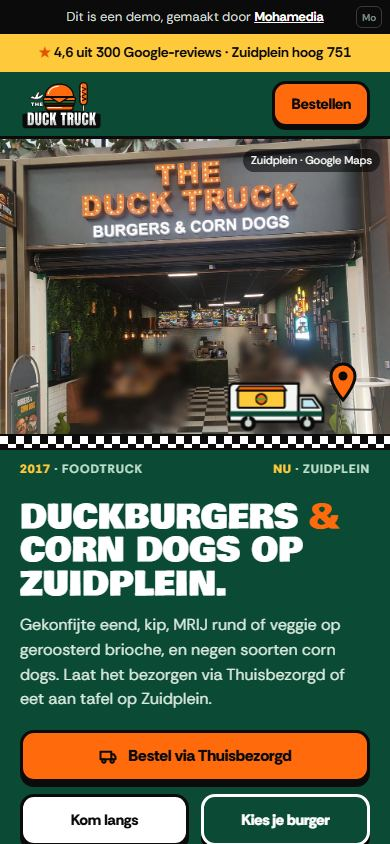
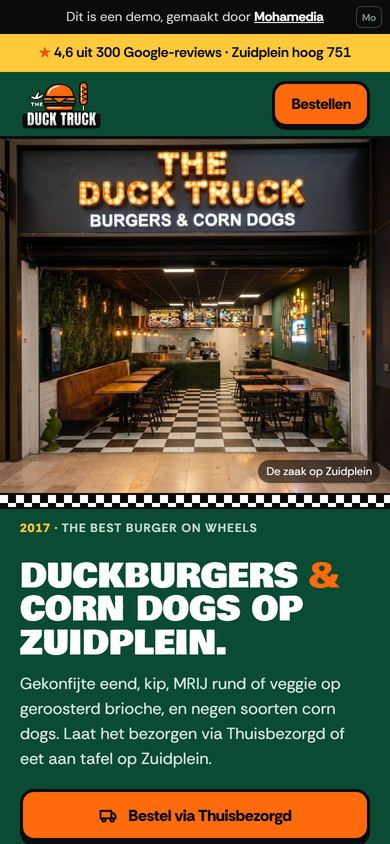
Demo the-duck-truck

diff --git a/the-duck-truck/index.html b/the-duck-truck/index.html
@@ -7,10 +7,12 @@
   gevelfoto); de site gedraagt zich als zo'n zuil: grote tegels, categorie-rail, een "winkelmand"-balk met prijs en
   één knop naar Thuisbezorgd. Burger-kiezer = vlees -> smaak -> los/menu, met een camerapan over hun eigen
   burgerfoto die per gekozen smaak één burger doorschuift, zonder smaak-op-burger-koppeling (geen getekende schaal, geen kaartje dat zich invult).
-  Hero: hun eigen gevelfoto (Zuidplein, lichtletters) recht en stil. Eronder een stilstaande zwart-wit tegelstrook
-  (hun vloer) als weg: één keer rijdt een getekende foodtruck van "2017 · foodtruck" naar "Zuidplein hoog 751" en
-  parkeert; de pin valt één keer. Daarna stil. Geen lus, geen Ken Burns, geen stoom, geen licht-gaat-aan/neon-flikker,
-  geen letters één voor één, geen schuine fotokaart, geen stempel/sticker, geen lopende band.
+  Hero: hun eigen gevelfoto (Zuidplein), met AI opgeschoond (mensen verwijderd), recht. Beweging (wens Mo 9 nov, gaat
+  vóór de "geen lus"-les): de gloeilampjes van hun lichtletters THE DUCK TRUCK leven als een marquee: bij laden één
+  snelle chase van links naar rechts, daarna een rustige twinkel per lampje (overlay op de 101 gemeten lampposities,
+  niet de hele foto). Bij laden vloeit een warme gloed over de stenen vloer naar buiten. Eronder een stilstaande
+  zwart-wit tegelstrook (hun vloer). Geen truck meer (Caribbean Soul Kitchen heeft al een rijdende truck), geen
+  Ken Burns, geen stoom, geen letters één voor één, geen schuine fotokaart, geen stempel, geen lopende band.
   Kleuren uit hun zaak/logo: diep groen (#0b4a34), zwart-wit tegel, oranje lichtletters (#ff6a0d), geel van de sterren.
   Fonts: Bowlby One (zoals hun lichtletters) + Rethink Sans.
   Logo: hun eigen logo (eend, THE, burger, corn dog, boogband met DUCK TRUCK) nagetekend als vectorpaden.
@@ -76,18 +78,24 @@ p{margin:0}
 /* hero */
 .hero{background:var(--groen);color:#fff;position:relative;overflow:hidden}
 .hero-grid{display:grid;grid-template-columns:1fr}
-.hero-foto{position:relative;height:clamp(250px,35vh,330px);overflow:hidden;background:#2b2f2c}
-.hero-foto img{width:100%;height:100%;object-fit:cover;object-position:50% 14%}
-.hero-foto .bron{position:absolute;right:10px;top:10px;background:rgba(0,0,0,.55);color:#fff;font-size:11px;padding:3px 8px;border-radius:99px}
+.hero-foto{position:relative;height:clamp(290px,42vh,360px);overflow:hidden;background:#141a17}
+.beeld{position:absolute;left:0;top:0;width:100%;aspect-ratio:1400/1737}
+.beeld img{width:100%;height:100%;display:block}
+.hero-foto .bron{position:absolute;right:10px;bottom:10px;z-index:3;background:rgba(0,0,0,.55);color:#fff;font-size:11px;padding:3px 8px;border-radius:99px}
 .weg{position:relative;height:16px;background:repeating-conic-gradient(var(--zwart) 0 25%,#fff 0 50%) 0 0/16px 16px;border-block:2px solid var(--zwart)}
-.truck{position:absolute;bottom:14px;right:16%;width:104px;height:56px;z-index:3;animation:rij 2.6s cubic-bezier(.2,.75,.25,1) .35s both}
-.truck .wiel{transform-box:fill-box;transform-origin:center;animation:draai 2.6s cubic-bezier(.2,.75,.25,1) .35s both}
-.truck .romp{animation:veer .5s ease-out 2.75s both;transform-box:fill-box;transform-origin:50% 100%}
-@keyframes rij{from{transform:translateX(-110vw)}to{transform:translateX(0)}}
-@keyframes draai{from{transform:rotate(-1440deg)}to{transform:rotate(0)}}
-@keyframes veer{0%{transform:translateY(0)}35%{transform:translateY(2px) rotate(.8deg)}70%{transform:translateY(-1px)}100%{transform:translateY(0)}}
-.pin{position:absolute;right:calc(16% - 30px);bottom:46px;width:30px;height:40px;z-index:4;animation:pinval .55s cubic-bezier(.3,1.5,.5,1) 2.85s both}
-@keyframes pinval{from{opacity:0;transform:translateY(-40px)}to{opacity:1;transform:translateY(0)}}
+/* lampjes van hun lichtletters: overlay op de gemeten lampposities */
+.lampen{position:absolute;inset:0;pointer-events:none}
+.lamp{position:absolute;width:var(--lw,14px);height:var(--lw,14px);margin:calc(var(--lw,14px)/-2) 0 0 calc(var(--lw,14px)/-2);border-radius:50%;
+  background:radial-gradient(circle,#fffdf2 0 16%,rgba(255,226,150,.95) 30%,rgba(255,170,60,.45) 52%,rgba(255,140,30,0) 72%);
+  mix-blend-mode:screen;opacity:0;
+  animation:chase .55s ease-out var(--d) both, twinkel var(--t) ease-in-out calc(2.6s + var(--r)) infinite}
+@keyframes chase{0%{opacity:0;transform:scale(.6)}30%{opacity:1;transform:scale(2.3)}100%{opacity:.55;transform:scale(1)}}
+@keyframes twinkel{0%,100%{opacity:.5;transform:scale(1)}50%{opacity:1;transform:scale(1.35)}}
+/* warme gloed die bij laden over de stenen vloer naar buiten uitvloeit */
+.vloergloed{position:absolute;left:0;right:0;top:72%;height:28%;-webkit-mask-image:linear-gradient(to bottom,transparent,#000 30%);mask-image:linear-gradient(to bottom,transparent,#000 30%);pointer-events:none;mix-blend-mode:screen;
+  background:radial-gradient(60% 75% at 50% 0%,rgba(255,170,70,.55),rgba(255,140,40,.18) 55%,rgba(255,120,30,0) 80%);
+  transform-origin:50% 0;animation:uitvloei 2.4s cubic-bezier(.2,.7,.2,1) .9s both}
+@keyframes uitvloei{from{opacity:0;transform:scaleY(.05) scaleX(.5)}to{opacity:1;transform:scaleY(1) scaleX(1)}}
 .route-labels{display:flex;justify-content:space-between;font-size:12px;font-weight:700;letter-spacing:.08em;text-transform:uppercase;color:#bfe0cd;padding:10px 0 0}
 .route-labels b{color:var(--geel);font-weight:800}
 .hero-tekst{padding:14px 0 30px}
@@ -275,18 +283,14 @@ footer .klein{font-size:13px;color:#9fb0a6}
   .logo img{height:66px}
   .hero-grid{grid-template-columns:1.05fr 1fr;min-height:560px}
   .hero-foto{height:auto;min-height:560px;grid-row:1/3}
-  .hero-foto img{object-position:50% 35%}
   .weg{grid-column:1/-1;grid-row:3}
   .hero-tekst{grid-column:2;grid-row:1/3;padding:56px 40px 40px 56px;align-self:center;max-width:640px}
   .route-labels{grid-column:1/-1;grid-row:4;padding:10px 24px 18px}
-  .truck{width:130px;height:70px}
   .cd-grid{grid-template-columns:1fr 1.05fr;align-items:center}
   .vest{grid-template-columns:1fr 1fr;align-items:stretch}
   .adres .btns{grid-template-columns:1fr 1fr}
   .zweef,.zweef.aan{display:none}
   .hero-tekst{padding-top:36px;padding-bottom:100px}
-  .truck{right:9%}
-  .pin{right:calc(9% - 40px)}
   .kiosk{padding:16px}
   .stap{padding:24px 26px 6px}
   .mand{grid-template-columns:1fr auto;align-items:center;padding:18px 26px}
@@ -302,6 +306,8 @@ footer .klein{font-size:13px;color:#9fb0a6}
   .tegel{padding:12px 10px}
 }
 @media (prefers-reduced-motion:reduce){
+  .lamp{animation:none!important;opacity:.6}
+  .vloergloed{animation:none!important}
   *,*::before,*::after{animation-duration:.01ms!important;animation-delay:0s!important;transition-duration:.01ms!important;scroll-behavior:auto!important}
 }
 </style>
@@ -327,27 +333,17 @@ footer .klein{font-size:13px;color:#9fb0a6}
 <main id="top">
 <section class="hero" id="hero" aria-labelledby="hero-kop">
   <div class="hero-grid">
-    <div class="hero-foto">
-      <img src="img/gevel-zuidplein.jpg" alt="De gevel van The Duck Truck op Zuidplein: oranje lichtletters 'The Duck Truck, burgers &amp; corn dogs' boven een zaak met zwart-witte tegelvloer en groene wand" width="960" height="960" fetchpriority="high">
-      <span class="bron">Zuidplein · Google Maps</span>
+    <!-- Hero-foto: de originele Google Maps-gevelfoto (apr 2025), met AI opgeschoond (Nano Banana Pro via Higgsfield):
+         mensen, standaard en statafel verwijderd, scherper gemaakt. Lampjes en vloergloed zijn een CSS-overlay. -->
+    <div class="hero-foto" id="heroFoto">
+      <div class="beeld" id="beeld">
+        <img src="img/gevel-zuidplein-900.jpg" srcset="img/gevel-zuidplein-900.jpg 900w, img/gevel-zuidplein-1400.jpg 1400w" sizes="(min-width:980px) 52vw, 100vw" alt="De zaak op Zuidplein: oranje lichtletters 'The Duck Truck, burgers &amp; corn dogs' boven een zaak met zwart-witte tegelvloer en groene wand" width="1400" height="1737" fetchpriority="high">
+        <div class="vloergloed" aria-hidden="true"></div>
+        <div class="lampen" id="lampen" aria-hidden="true"></div>
+      </div>
+      <span class="bron">De zaak op Zuidplein</span>
     </div>
-    <div class="weg" aria-hidden="true">
-      <svg class="truck" viewBox="0 0 120 64" aria-hidden="true">
-        <g class="romp">
-          <path d="M6 12 Q6 6 12 6 H86 V50 H6 Z" fill="#f3f6f3" stroke="#0b0b0b" stroke-width="3" stroke-linejoin="round"/>
-          <path d="M86 20 H104 L114 34 V50 H86 Z" fill="#f3f6f3" stroke="#0b0b0b" stroke-width="3" stroke-linejoin="round"/>
-          <path d="M90 24 H102 L109 34 H90 Z" fill="#bfe8f0" stroke="#0b0b0b" stroke-width="2"/>
-          <rect x="16" y="14" width="54" height="20" rx="2" fill="#ffc93c" stroke="#0b0b0b" stroke-width="2.5"/>
-          <path d="M14 14 H72 L68 9 H18 Z" fill="#ff6a0d" stroke="#0b0b0b" stroke-width="2" stroke-linejoin="round"/>
-          <rect x="6" y="38" width="108" height="6" fill="#0b4a34"/>
-          <circle cx="43" cy="24" r="6" fill="#ff6a0d" stroke="#0b0b0b" stroke-width="2"/>
-          <rect x="37" y="23" width="12" height="2.4" fill="#46a83c"/>
-        </g>
-        <g class="wiel"><circle cx="28" cy="52" r="9" fill="#0b0b0b"/><circle cx="28" cy="52" r="4" fill="#cfd8d2"/><rect x="27" y="44" width="2" height="5" fill="#cfd8d2"/></g>
-        <g class="wiel"><circle cx="96" cy="52" r="9" fill="#0b0b0b"/><circle cx="96" cy="52" r="4" fill="#cfd8d2"/><rect x="95" y="44" width="2" height="5" fill="#cfd8d2"/></g>
-      </svg>
-      <svg class="pin" viewBox="0 0 30 40" aria-hidden="true"><path d="M15 38 C15 38 3 24 3 14 A12 12 0 0 1 27 14 C27 24 15 38 15 38 Z" fill="#ff6a0d" stroke="#0b0b0b" stroke-width="3"/><circle cx="15" cy="14" r="4.5" fill="#0b0b0b"/></svg>
-    </div>
+    <div class="weg" aria-hidden="true"></div>
     <div class="route-labels" aria-hidden="true"><span><b>2017</b> · the best burger on wheels</span><span class="breed"><b>nu</b> · Zuidplein hoog 751</span></div>
     <div class="hero-tekst">
       <p class="plek">Winkelcentrum Zuidplein · Rotterdam</p>
@@ -551,7 +547,7 @@ footer .klein{font-size:13px;color:#9fb0a6}
       Zuidplein hoog 751, 3083 BJ Rotterdam<br>
       <a href="https://www.thuisbezorgd.nl/menu/the-duck-truck-corndogs" target="_blank" rel="noopener">Bestellen via Thuisbezorgd</a> · <a href="https://www.instagram.com/theducktruck.nl/" target="_blank" rel="noopener">Instagram @theducktruck.nl</a>
     </div>
-    <p class="klein">Foto's: The Duck Truck (eigen Thuisbezorgd-pagina's) en Google Maps; gasten onherkenbaar gemaakt. Prijzen van onze bestelpagina, november 2026.</p>
+    <p class="klein">Foto's: The Duck Truck (eigen Thuisbezorgd-pagina's) en Google Maps. Prijzen van onze bestelpagina, november 2026.</p>
     <p class="door">Website door <a href="https://mohamedia.nl" target="_blank" rel="noopener">Mohamedia</a></p>
   </div>
 </footer>
@@ -605,6 +601,29 @@ footer .klein{font-size:13px;color:#9fb0a6}
 
 <script>
 (function(){
+
+  /* ---------- hero: foto passend (cover) + lampjes op hun echte posities ---------- */
+  var LAMPEN=[[21.28,22.02],[21.3,25.56],[21.31,23.23],[21.32,24.39],[22.83,25.54],[22.84,22.05],[24.31,22.53],[24.39,24.9],[24.73,23.69],[27.31,23.21],[27.32,21.98],[27.36,24.42],[28.24,25.46],[30.05,25.43],[30.9,21.98],[30.9,23.21],[30.91,24.4],[33.57,23.8],[34.06,22.43],[34.13,25.1],[35.67,21.94],[35.72,25.56],[36.99,22.52],[37.12,24.83],[39.79,25.56],[39.8,22.02],[39.82,23.16],[39.84,24.38],[40.99,23.7],[41.17,16.09],[41.95,22.89],[42.62,16.08],[42.74,24.44],[43.21,21.93],[43.22,17.11],[43.25,18.35],[43.27,19.52],[43.58,25.58],[44.01,16.07],[45.33,16.05],[47.43,17.13],[47.47,15.99],[47.49,18.33],[47.5,19.47],[48.27,21.94],[48.65,17.56],[49.64,21.91],[49.95,17.52],[50.27,23.03],[50.29,24.23],[50.33,25.42],[51.07,21.92],[51.09,18.27],[51.11,17.1],[51.15,15.94],[51.15,19.45],[52.41,21.92],[53.99,15.91],[54.03,18.25],[54.04,17.07],[54.07,19.39],[54.56,25.46],[54.57,23.01],[54.6,24.16],[54.61,21.89],[55.48,17.55],[55.57,15.89],[55.58,19.43],[55.98,23.67],[56.07,21.9],[56.93,17.54],[57.1,15.86],[57.11,19.4],[57.21,24.39],[57.51,23.34],[57.6,22.11],[58.1,25.46],[60.52,23.02],[60.52,24.2],[60.53,21.82],[61.51,25.27],[63.31,25.29],[64.12,24.21],[64.16,23.06],[64.17,21.87],[66.96,23.6],[67.28,22.32],[67.49,24.87],[68.97,21.74],[69.04,25.38],[70.42,22.24],[70.46,24.62],[73.14,22.98],[73.16,21.76],[73.21,24.13],[73.21,25.29],[74.38,23.47],[75.46,22.56],[76.14,24.21],[76.57,21.67],[77.01,25.29]];
+  var heroFoto=document.getElementById("heroFoto"), beeld=document.getElementById("beeld"), lampen=document.getElementById("lampen");
+  LAMPEN.forEach(function(p,i){
+    var e=document.createElement("i"); e.className="lamp";
+    e.style.left=p[0]+"%"; e.style.top=p[1]+"%";
+    e.style.setProperty("--d",(0.35+(p[0]-20)/60*1.5).toFixed(2)+"s");
+    e.style.setProperty("--t",(2.6+((i*37)%30)/10).toFixed(1)+"s");
+    e.style.setProperty("--r",(((i*53)%40)/10).toFixed(1)+"s");
+    lampen.appendChild(e);
+  });
+  function pasHero(){
+    var cw=heroFoto.clientWidth, ch=heroFoto.clientHeight, ar=1737/1400;
+    var w=cw, h=cw*ar; if(h<ch){h=ch; w=ch/ar;}
+    var start=window.innerWidth>=980?0.11:0.125;
+    var top=Math.max(ch-h,Math.min(0,-h*start));
+    beeld.style.width=w+"px"; beeld.style.height=h+"px";
+    beeld.style.left=((cw-w)/2)+"px"; beeld.style.top=top+"px";
+    lampen.style.setProperty("--lw",Math.max(8,w*0.016)+"px");
+  }
+  pasHero(); window.addEventListener("resize",pasHero);
+
   /* ---------- menu (bestelpagina Zuidplein, 8 nov 2026) ---------- */
   var BRIOCHE = "Geroosterd brioche broodje, ";
   var VLEES = {
